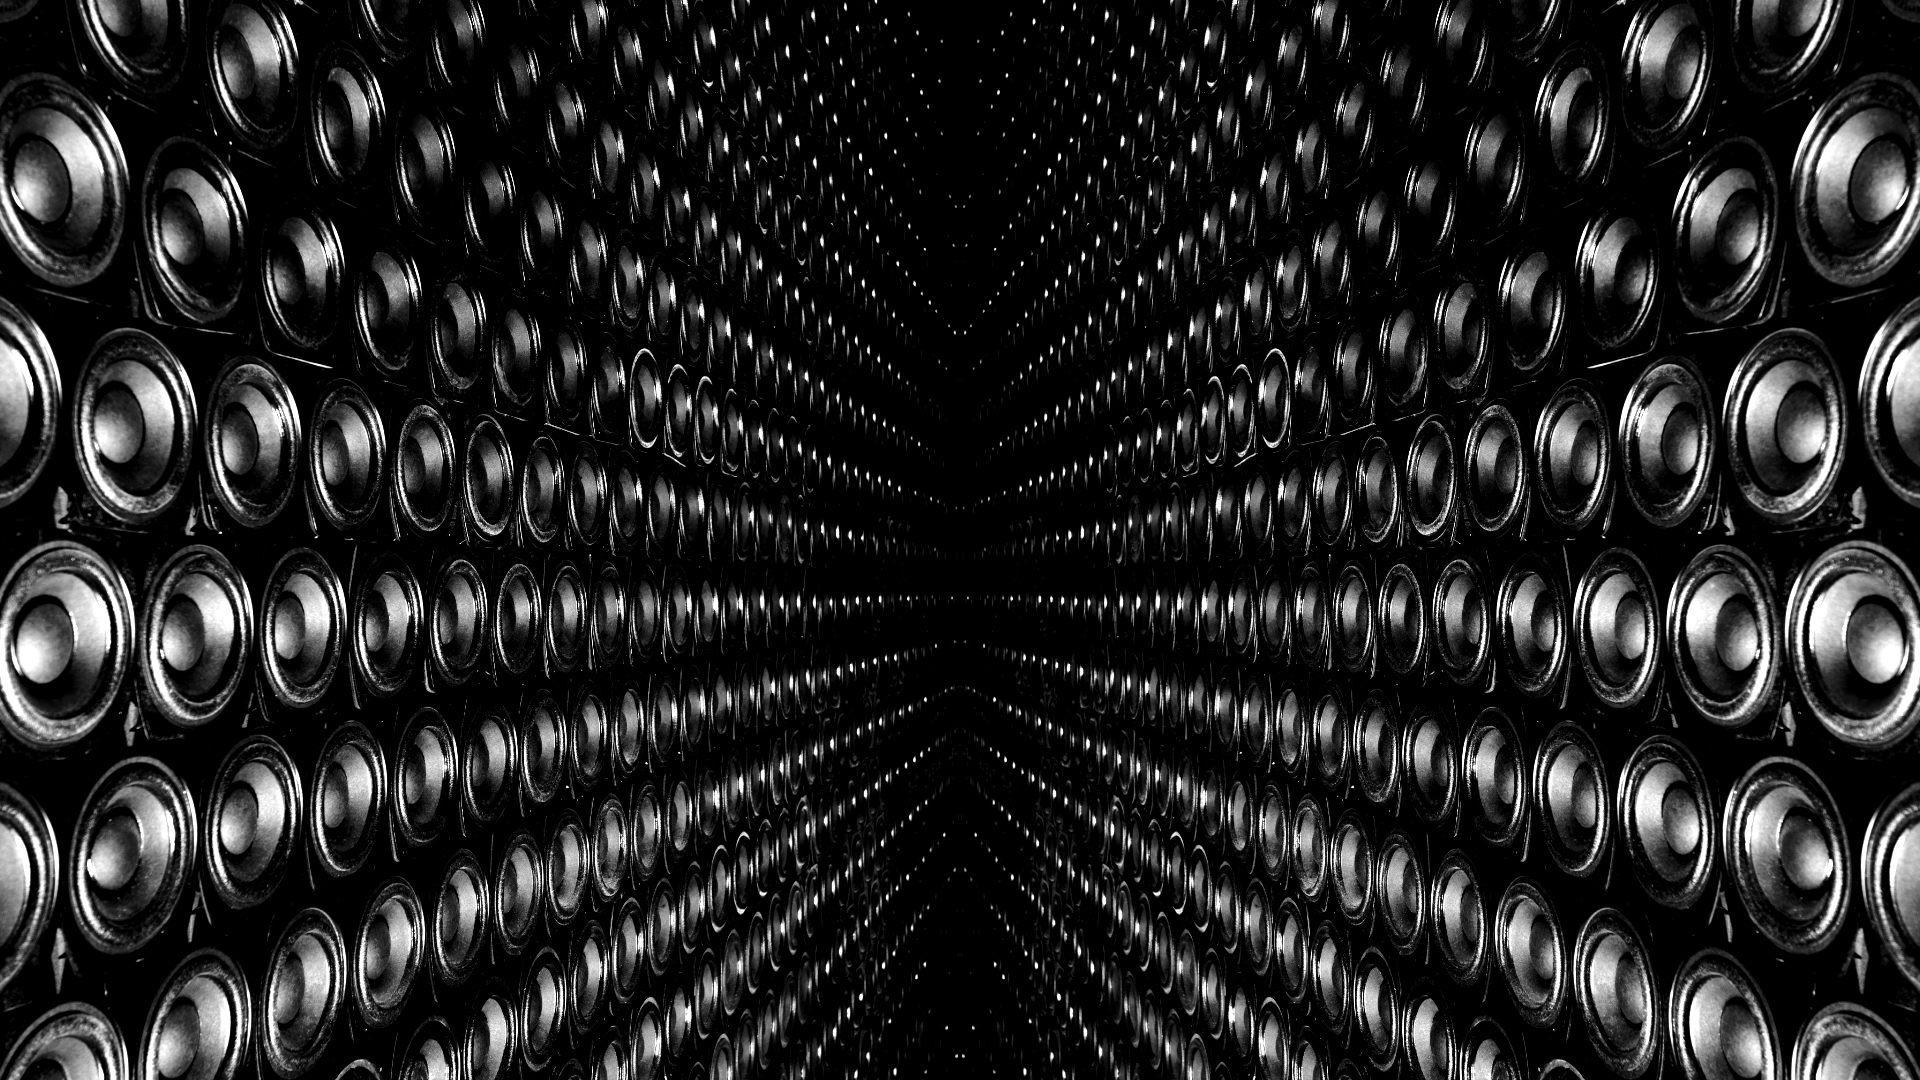
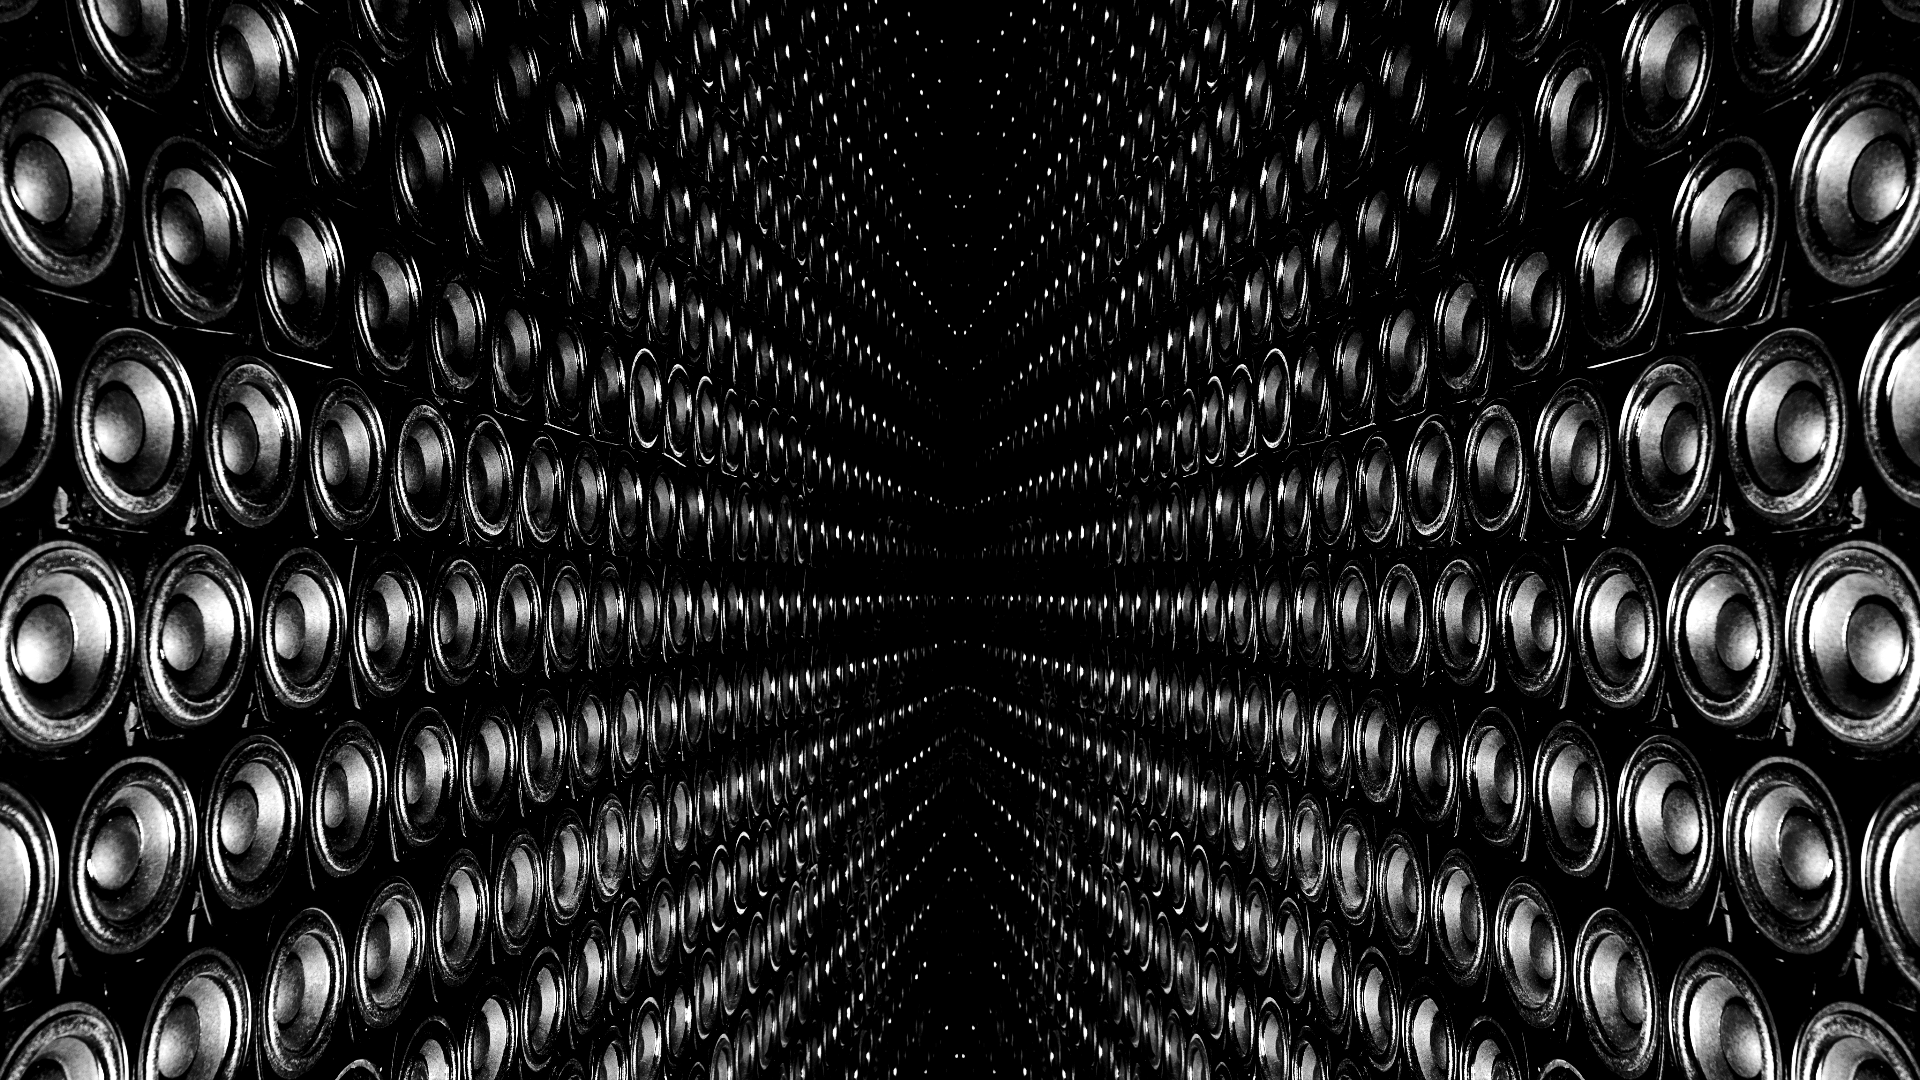
hero 수정

diff --git a/js/home.js b/js/home.js
@@ -12,9 +12,9 @@ window.addEventListener('load', function () { document.body.classList.add('ready
 
 /* hero 전환 — img/hero01.png, img/hero02.png, img/hero03.png ... 로컬 이미지 사용 */
 var PL = [
-  { s: 'hero01', t: 'Re:one 不二火', m: '2024 — 폐지관, LED, 사운드 — H 4,000mm' },
-  { s: 'hero02', t: 'Daybreak', m: '2021 — 폐스피커 1,886개 — Seoul' },
-  { s: 'hero03', t: 'The Resonance Forest', m: '2022 — 지관, 사운드 — 아트사이드 갤러리' }
+  { s: 'hero01', t: 'Reconciled Ⅱ, 2011', m: 'Sound Forest 2009 Φ12 x H300 cm Paper pipe 15ea , Speakers ㅡ Incheon Art Platform, Incheon, Korea' },
+  { s: 'hero02', t: 'The Flower of Evil, 2003', m: 'Collect and Stack | 10 works ㅡ Artside Gallery, Seoul, South Korea' },
+  { s: 'hero03', t: 'Sound Forest: Earth 展, 2011', m: 'Sound Forest 2009 Φ12 x H 300cm Paper Cylinder 12 ea, Speakers ㅡ Seongbuk District Art Museum, Korea' }
 ];
 var pi = 0, hi = document.getElementById('hi'), dots = document.querySelectorAll('#dots i');
 function go(k) {

diff --git a/js/header.js b/js/header.js
@@ -19,11 +19,11 @@
    - href 항목: 완전히 다른 페이지로 이동 (history.html 처럼). key 를 주면
      현재 그 페이지에 있을 때 옅게 표시된다. */
 const NAV = [
-  { label: 'works', hash: '#plates' },
-  { label: 'index', hash: '#arv' },
-  { label: 'about', hash: '#about' },
+  { label: 'WORKS', hash: '#plates' },
+  { label: 'INDEX', hash: '#arv' },
+  { label: 'ABOUT', hash: '#about' },
   // { label: 'history', href: 'history.html', key: 'history' },
-  { label: 'contact', hash: '#contact' }
+  { label: 'CONTACT', hash: '#contact' }
 ];
 
 /**

diff --git a/index.html b/index.html
@@ -19,8 +19,8 @@
   <div class="shade"></div>
   <div class="cap">
     <div>
-      <div class="t" id="ct">Re:one 不二火</div>
-      <div class="lb" id="cm">2024 — 폐지관, LED, 사운드 — H 4,000mm</div>
+      <div class="t" id="ct">Reconciled Ⅱ, 2011</div>
+      <div class="lb" id="cm">Sound Forest 2009 Φ12 x H300 cm Paper pipe 15ea , Speakers ㅡ Incheon Art Platform, Incheon, Korea</div>
     </div>
     <div class="dots" id="dots"><i class="on"></i><i></i><i></i></div>
   </div>

diff --git a/css/base.css b/css/base.css
@@ -69,7 +69,7 @@ header{
   display:flex;justify-content:space-between;padding:24px var(--pad);
   mix-blend-mode:difference;
 }
-header nav{display:flex;gap:24px;align-items:center;}
+header nav{display:flex;gap:24px;align-items:flex-end;}
 header a{font-size:36px;color:#fff;transition:opacity .25s;letter-spacing:-0.5px;}
 header a:hover{opacity:.45;}
 
